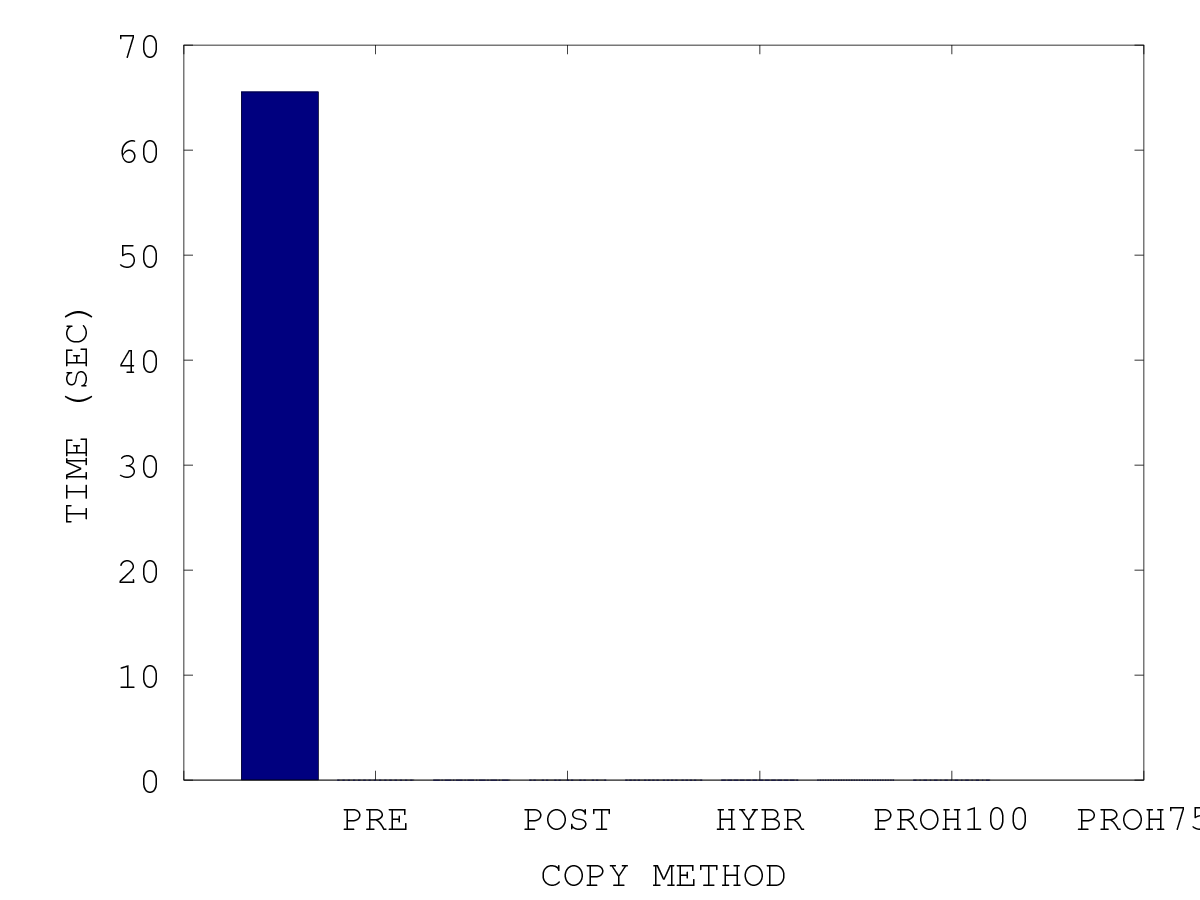
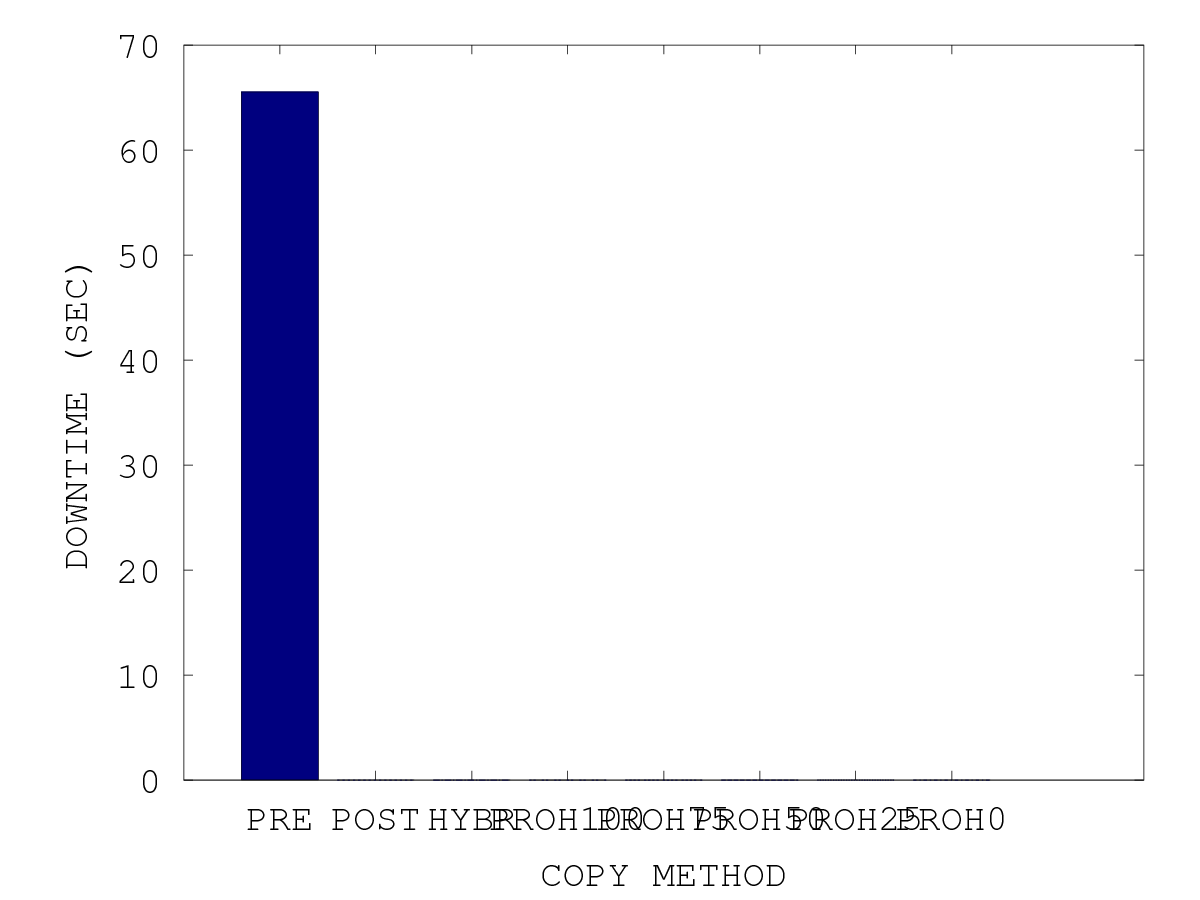
basic.m

diff --git a/basic.m b/basic.m
@@ -7,11 +7,11 @@ r = 4096
 r *= 1024 % convert to KB
 
 % page dirty rate in percent (%): against to total memory pages
-readrate = 0
+readrate = 50
 prefix = strcat ("M4G_R", num2str(readrate))
 readrate /= 100
 
-dirtyrate = 100 
+dirtyrate = 50 
 prefix = strcat (prefix, "_W", num2str(dirtyrate))
 dirtyrate /= 100
 
@@ -275,7 +275,7 @@ x = {'PRE', 'POST', 'HYBR', 'PROH100', 'PROH75', 'PROH50', 'PROH25', 'PROH0'};
 xinterval = 3
 %xintervals = 1:xinterval:(xinterval*length(x));
 %xintervals = 1:3:3*length(x);
-xintervals = 1:3:3*length(x);
+xintervals = 1:4:4*length(x);
 %plot(x, A(:,2)/1000000, x, A(:,3)/1000000, '-.*');
 %plot(A(:,2));
 
@@ -283,7 +283,7 @@ xintervals = 1:3:3*length(x);
 %bar(xtics, A(:,1))
 %bar(A(:,1), XTicksLabelStyle = Diagonal)
 bar(xintervals, A(:,1))
-set(gca, 'XTick', 1:3:24, 'XTickLabel', x, 'FontSize', fontsize)
+set(gca, 'XTick', 1:4:32, 'XTickLabel', x, 'FontSize', fontsize)
 %set(gca, 'XTick', xintervals, 'XTickLabel', x, 'FontSize', fontsize)
 xlabel('COPY METHOD', 'FontSize', fontsize);
 ylabel('TOTAL TIME (SEC)', 'FontSize', fontsize);
